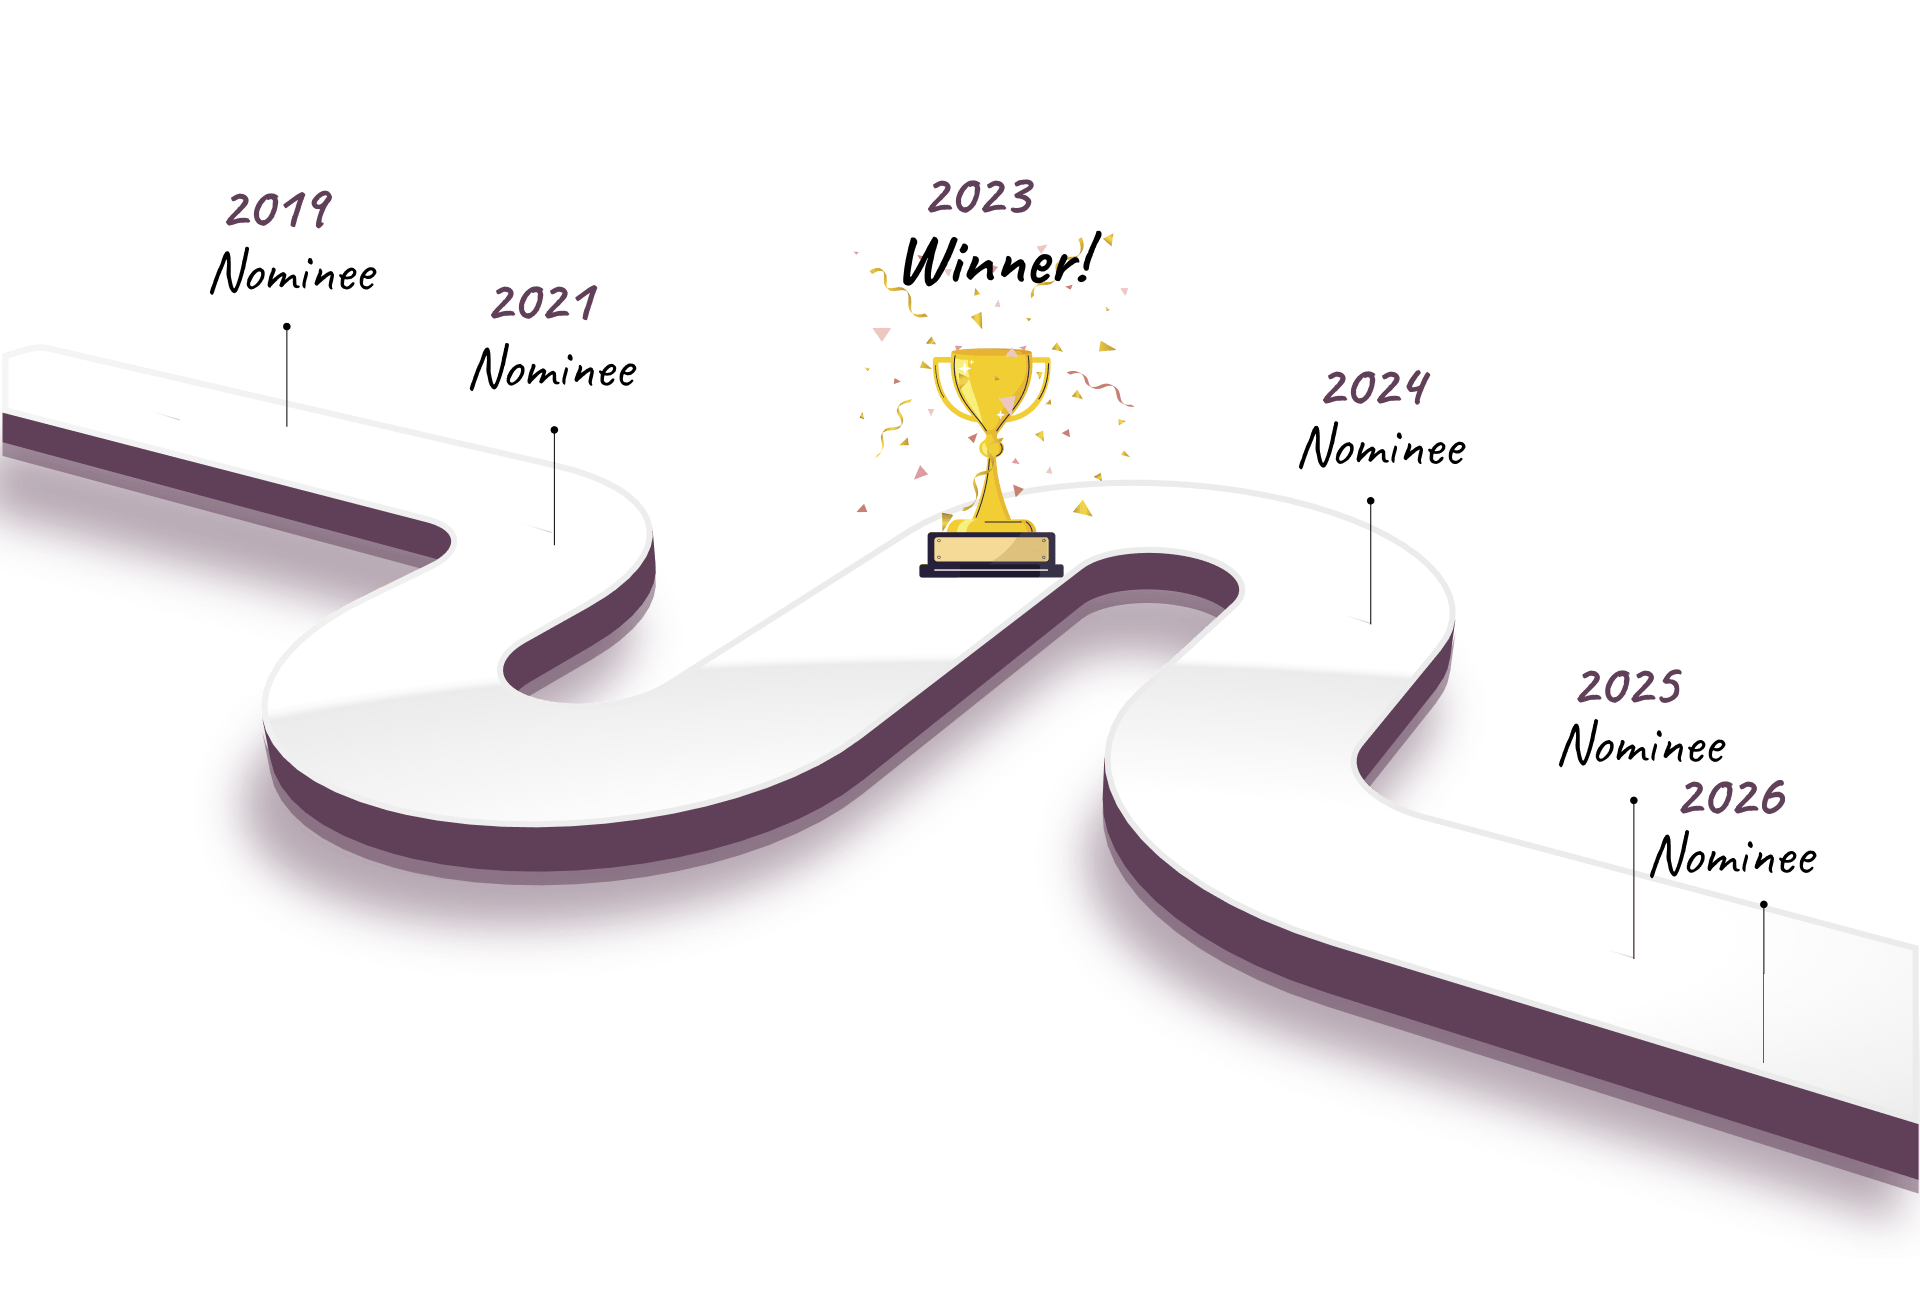
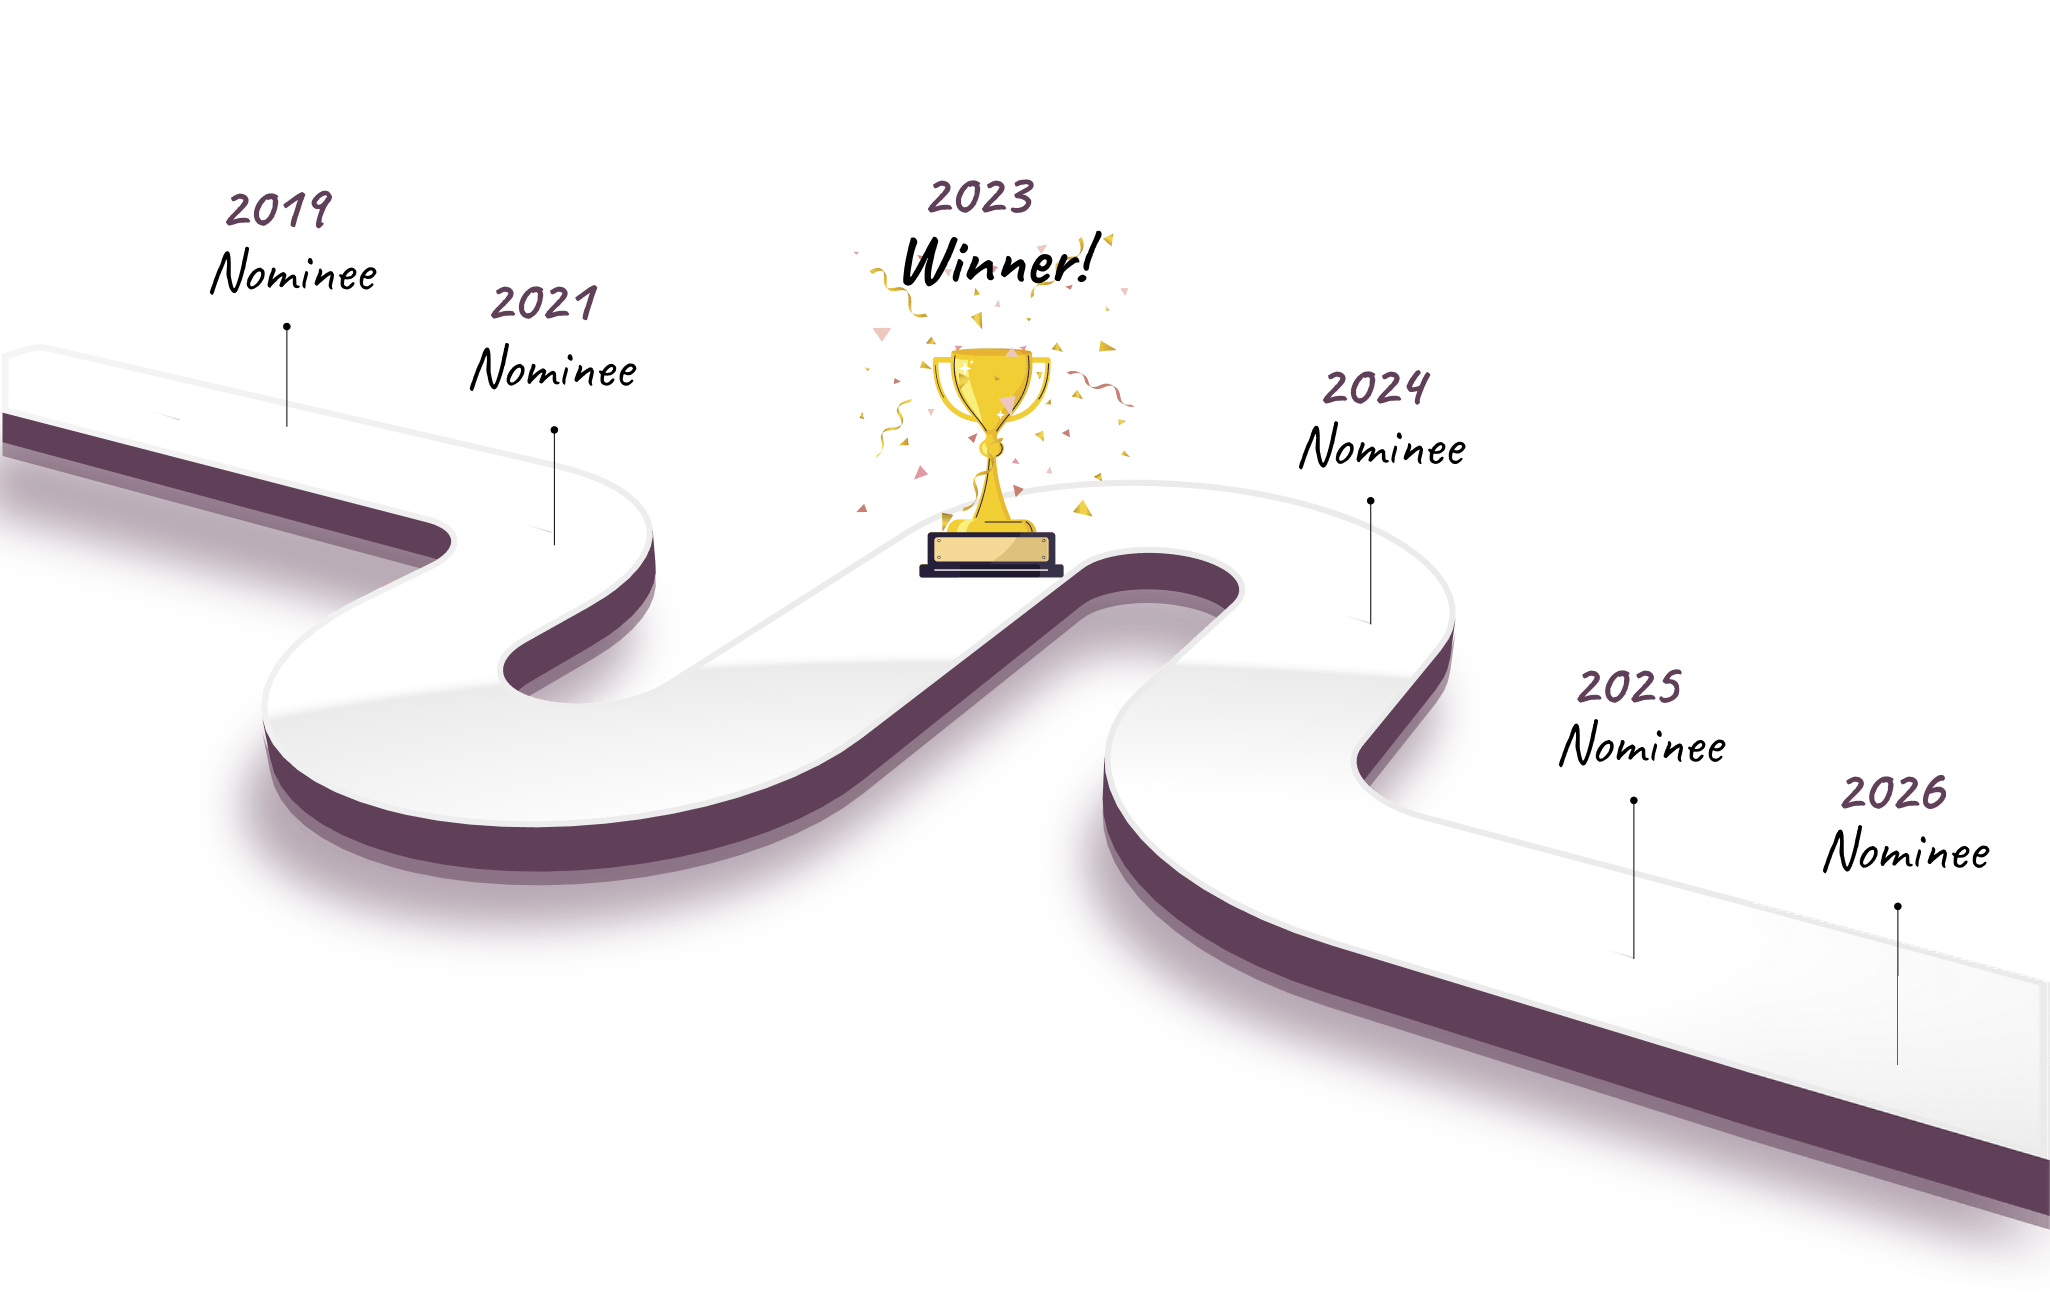
Equalize final roadmap milestone spacing

diff --git a/home.html b/home.html
@@ -2846,7 +2846,7 @@ transform:translateY(-2PX);
 		<div class="elementor-element elementor-element-ee1e9c3 e-con-full e-flex tm-col-stretched-none tm-bg-color-over-image e-con e-parent" data-id="ee1e9c3" data-element_type="container" data-e-type="container">
 		<div class="elementor-element elementor-element-fd9c84d e-con-full e-flex tm-col-stretched-none tm-bg-color-over-image e-con e-child" data-id="fd9c84d" data-element_type="container" data-e-type="container">
 				<div class="elementor-element elementor-element-5e117c9 elementor-widget elementor-widget-image" data-id="5e117c9" data-element_type="widget" data-e-type="widget" data-widget_type="image.default">
-															<img loading="lazy" decoding="async" width="1920" height="1294" src="assets/odoo-award-nominees-2026.png" class="attachment-full size-full wp-image-987923" alt="Oodu Implementers award roadmap: nominees in 2019, 2021, 2024, 2025 and 2026, and winner in 2023" srcset="assets/odoo-award-nominees-2026.png 1920w" sizes="(max-width: 1920px) 100vw, 1920px" />															</div>
+															<img loading="lazy" decoding="async" width="2050" height="1294" src="assets/odoo-award-nominees-2026.png" class="attachment-full size-full wp-image-987923" alt="Oodu Implementers award roadmap: nominees in 2019, 2021, 2024, 2025 and 2026, and winner in 2023" srcset="assets/odoo-award-nominees-2026.png 2050w" sizes="(max-width: 2050px) 100vw, 2050px" />															</div>
 				</div>
 				</div>
 		<div class="elementor-element elementor-element-053bb80 e-con-full e-flex tm-col-stretched-none tm-bg-color-over-image e-con e-parent" data-id="053bb80" data-element_type="container" data-e-type="container">
